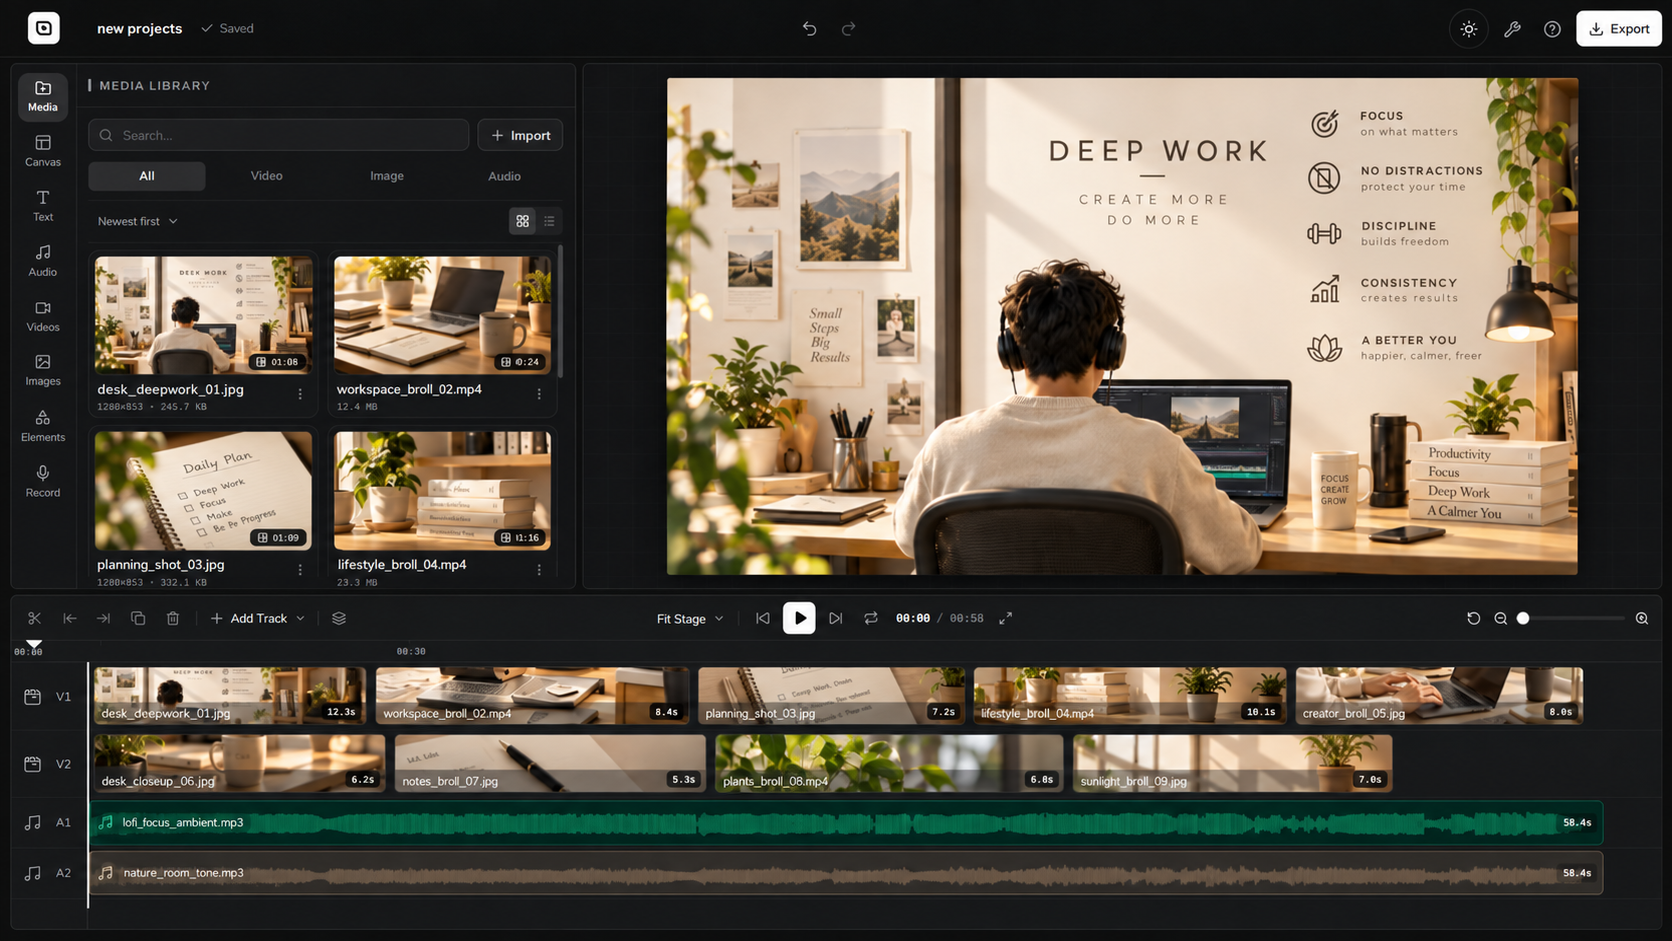
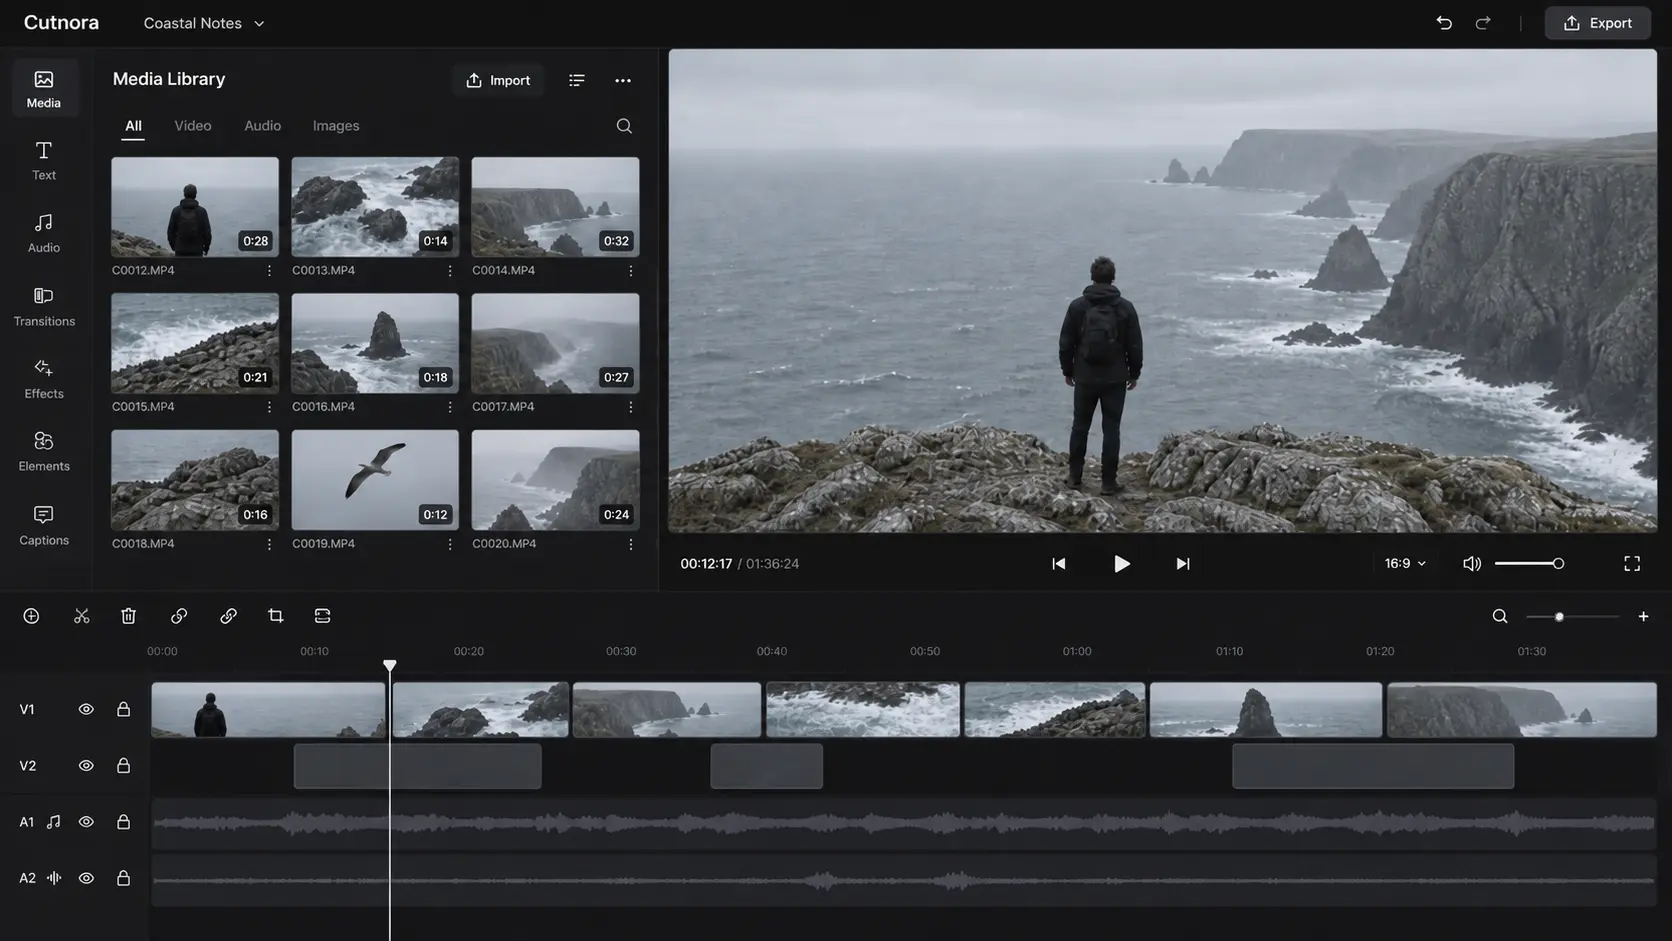
update landing page showcase assets and project text to Coastal Notes

diff --git a/src/modules/marketing/components/MinimalFeaturesSection.tsx b/src/modules/marketing/components/MinimalFeaturesSection.tsx
@@ -49,9 +49,7 @@ export function MinimalFeaturesSection() {
             <span className="h-2.5 w-2.5 rounded-full bg-zinc-300 dark:bg-[#DEDEDE]/30 transition-colors" />
             <div className="ml-2 flex min-w-0 items-center gap-2 rounded-full border border-zinc-200 dark:border-mkt-border bg-zinc-100/90 dark:bg-mkt-surface-secondary/80 px-3 py-0.5 font-mono text-[11px] font-medium text-zinc-600 dark:text-[#808080]">
               <span className="h-1.5 w-1.5 shrink-0 rounded-full bg-zinc-400 dark:bg-[#DEDEDE] dark:shadow-[0_0_6px_rgba(222,222,222,0.5)]" />
-              <span className="truncate">
-                cutnora.app/studio/golden-hour-stories
-              </span>
+              <span className="truncate">cutnora.app/studio/coastal-notes</span>
             </div>
             <span className="ml-auto hidden rounded-full border border-zinc-200 dark:border-mkt-border bg-zinc-100/90 dark:bg-mkt-surface-secondary/80 px-2.5 py-0.5 font-mono text-[9px] font-semibold tracking-wide text-zinc-600 dark:text-[#808080] uppercase sm:inline-flex">
               Local project
@@ -62,7 +60,7 @@ export function MinimalFeaturesSection() {
           <div className="relative mt-2 sm:mt-2.5 aspect-[1672/941] w-full overflow-hidden rounded-xl sm:rounded-[18px] border border-zinc-200/80 dark:border-white/[0.08] bg-zinc-100 dark:bg-mkt-surface-secondary">
             <Image
               src="/images/landing-page-showcase-light.webp"
-              alt="Cutnora editor with real travel footage, media assets, and a five-track timeline"
+              alt="Cutnora light editor showing the Coastal Notes project, coastal footage, and a multitrack timeline"
               fill
               priority
               draggable={false}
@@ -71,7 +69,7 @@ export function MinimalFeaturesSection() {
             />
             <Image
               src="/images/landing-page-showcase-dark.webp"
-              alt="Cutnora dark editor with real travel footage, media assets, and a five-track timeline"
+              alt="Cutnora dark editor showing the Coastal Notes project, coastal footage, and a multitrack timeline"
               fill
               priority
               draggable={false}
